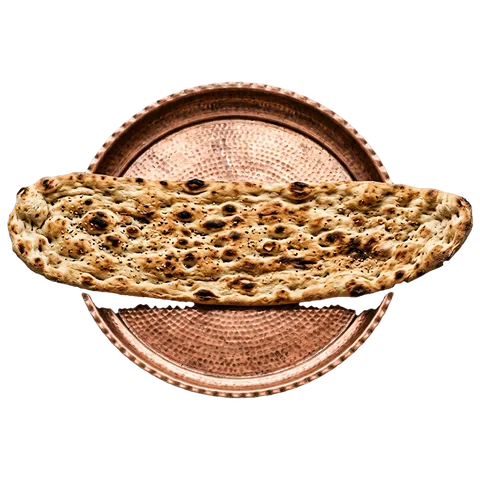
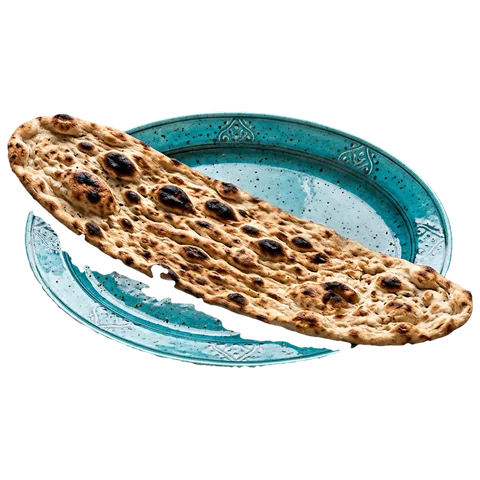
v33: دور سوم سفال فیروزهای — لوبیاپلو، استامبولی، کلمپلو، شیرینپلو، کشک بادمجان، میرزاقاسمی + سینی سنگک سفالی شدند؛ بازسازی دیزی/دوغ/زیتون در گام بعد

diff --git a/menu.html b/menu.html
@@ -532,8 +532,8 @@
 <article class="dish reveal" data-cat="polo">
       <div class="dish-media">
         <div class="window"><div class="glass">
-          <img src="assets/img/dish-lubia-480.webp"
-               srcset="assets/img/dish-lubia-480.webp 480w, assets/img/dish-lubia-880.webp 880w"
+          <img src="assets/img/dish-lubia-480.webp?v=33"
+               srcset="assets/img/dish-lubia-480.webp?v=33 480w, assets/img/dish-lubia-880.webp?v=33 880w"
                sizes="(max-width: 700px) 86vw, 340px"
                alt="لوبیاپلو: پلو با لوبیا سبز و گوشت و رب گوجه" loading="lazy">
         </div>
@@ -551,8 +551,8 @@
 <article class="dish reveal" data-cat="polo">
       <div class="dish-media">
         <div class="window"><div class="glass">
-          <img src="assets/img/dish-estamboli-480.webp"
-               srcset="assets/img/dish-estamboli-480.webp 480w, assets/img/dish-estamboli-880.webp 880w"
+          <img src="assets/img/dish-estamboli-480.webp?v=33"
+               srcset="assets/img/dish-estamboli-480.webp?v=33 480w, assets/img/dish-estamboli-880.webp?v=33 880w"
                sizes="(max-width: 700px) 86vw, 340px"
                alt="استامبولیپلو: پلو با گوجه و سیبزمینی و لوبیا سبز" loading="lazy">
         </div>
@@ -570,8 +570,8 @@
 <article class="dish reveal" data-cat="polo">
       <div class="dish-media">
         <div class="window"><div class="glass">
-          <img src="assets/img/dish-kalam-480.webp"
-               srcset="assets/img/dish-kalam-480.webp 480w, assets/img/dish-kalam-880.webp 880w"
+          <img src="assets/img/dish-kalam-480.webp?v=33"
+               srcset="assets/img/dish-kalam-480.webp?v=33 480w, assets/img/dish-kalam-880.webp?v=33 880w"
                sizes="(max-width: 700px) 86vw, 340px"
                alt="کلمپلوی شیرازی: پلو با کلمبرگ و سبزی معطر و گوشت" loading="lazy">
         </div>
@@ -589,8 +589,8 @@
 <article class="dish reveal" data-cat="polo">
       <div class="dish-media">
         <div class="window"><div class="glass">
-          <img src="assets/img/dish-shirin-480.webp"
-               srcset="assets/img/dish-shirin-480.webp 480w, assets/img/dish-shirin-880.webp 880w"
+          <img src="assets/img/dish-shirin-480.webp?v=33"
+               srcset="assets/img/dish-shirin-480.webp?v=33 480w, assets/img/dish-shirin-880.webp?v=33 880w"
                sizes="(max-width: 700px) 86vw, 340px"
                alt="شیرینپلو: پلوی زعفرانی با هویج شیرین و پسته و بادام و مرغ" loading="lazy">
         </div>
@@ -617,8 +617,8 @@
 <article class="dish reveal" data-cat="sonnati">
       <div class="dish-media">
         <div class="window"><div class="glass">
-          <img src="assets/img/dish-dizi-480.webp"
-             srcset="assets/img/dish-dizi-480.webp 480w, assets/img/dish-dizi-880.webp 880w"
+          <img src="assets/img/dish-dizi-480.webp?v=33"
+             srcset="assets/img/dish-dizi-480.webp?v=33 480w, assets/img/dish-dizi-880.webp?v=33 880w"
              sizes="(max-width: 700px) 86vw, 340px"
              alt="دیزی سنگی با گوشت و نخود، کاسهی تیلیت، سنگک، سبزی خوردن و ترشی خانگی" loading="lazy">
         </div>
@@ -636,8 +636,8 @@
 <article class="dish reveal" data-cat="sonnati">
       <div class="dish-media">
         <div class="window"><div class="glass">
-          <img src="assets/img/dish-kashkbademjan-480.webp"
-               srcset="assets/img/dish-kashkbademjan-480.webp 480w, assets/img/dish-kashkbademjan-880.webp 880w"
+          <img src="assets/img/dish-kashkbademjan-480.webp?v=33"
+               srcset="assets/img/dish-kashkbademjan-480.webp?v=33 480w, assets/img/dish-kashkbademjan-880.webp?v=33 880w"
                sizes="(max-width: 700px) 86vw, 340px"
                alt="کشک بادمجان: دیپ بادمجان دودی و کشک با نعناداغ و گردو" loading="lazy">
         </div>
@@ -655,8 +655,8 @@
 <article class="dish reveal" data-cat="sonnati">
       <div class="dish-media">
         <div class="window"><div class="glass">
-          <img src="assets/img/dish-mirzaghasemi-480.webp"
-               srcset="assets/img/dish-mirzaghasemi-480.webp 480w, assets/img/dish-mirzaghasemi-880.webp 880w"
+          <img src="assets/img/dish-mirzaghasemi-480.webp?v=33"
+               srcset="assets/img/dish-mirzaghasemi-480.webp?v=33 480w, assets/img/dish-mirzaghasemi-880.webp?v=33 880w"
                sizes="(max-width: 700px) 86vw, 340px"
                alt="میرزاقاسمی: خوراک بادمجان دودی، گوجه، سیر و تخممرغ گیلانی" loading="lazy">
         </div>
@@ -702,8 +702,8 @@
     <article class="dish reveal" data-cat="kenar">
       <div class="dish-media">
         <div class="window"><div class="glass">
-          <img src="assets/img/dish-kenar-sangak-480.webp"
-             srcset="assets/img/dish-kenar-sangak-480.webp 480w, assets/img/dish-kenar-sangak-880.webp 880w"
+          <img src="assets/img/dish-kenar-sangak-480.webp?v=33"
+             srcset="assets/img/dish-kenar-sangak-480.webp?v=33 480w, assets/img/dish-kenar-sangak-880.webp?v=33 880w"
              sizes="(max-width: 700px) 86vw, 340px"
              alt="نان سنگک تنوری: نان داغ تنور بر سینی مسی" loading="lazy">
         </div>
@@ -756,8 +756,8 @@
     <article class="dish reveal" data-cat="kenar">
       <div class="dish-media">
         <div class="window"><div class="glass">
-          <img src="assets/img/dish-kenar-zeytun-480.webp"
-             srcset="assets/img/dish-kenar-zeytun-480.webp 480w, assets/img/dish-kenar-zeytun-880.webp 880w"
+          <img src="assets/img/dish-kenar-zeytun-480.webp?v=33"
+             srcset="assets/img/dish-kenar-zeytun-480.webp?v=33 480w, assets/img/dish-kenar-zeytun-880.webp?v=33 880w"
              sizes="(max-width: 700px) 86vw, 340px"
              alt="زیتون پرورده: کاسهٔ زیتون ماریناشده با رب انار و گلپر" loading="lazy">
         </div>
@@ -774,8 +774,8 @@
     <article class="dish reveal" data-cat="kenar">
       <div class="dish-media">
         <div class="window"><div class="glass">
-          <img src="assets/img/dish-kenar-doogh-480.webp"
-             srcset="assets/img/dish-kenar-doogh-480.webp 480w, assets/img/dish-kenar-doogh-880.webp 880w"
+          <img src="assets/img/dish-kenar-doogh-480.webp?v=33"
+             srcset="assets/img/dish-kenar-doogh-480.webp?v=33 480w, assets/img/dish-kenar-doogh-880.webp?v=33 880w"
              sizes="(max-width: 700px) 86vw, 340px"
              alt="دوغ محلی با نعنا: کاسهٔ مسی دوغ زدهشده" loading="lazy">
         </div>

diff --git a/index.html b/index.html
@@ -144,8 +144,8 @@
       <span class="cat-txt"><b>پلوها و چلوها</b><i>۱۰ غذا · دمی و زعفرانی</i><em>دیدن همهی غذاها</em></span>
     </a>
     <a class="cat-tile reveal" href="menu.html#sonnati">
-      <img src="assets/img/dish-dizi-480.webp"
-           srcset="assets/img/dish-dizi-480.webp 480w, assets/img/dish-dizi-880.webp 880w"
+      <img src="assets/img/dish-dizi-480.webp?v=33"
+           srcset="assets/img/dish-dizi-480.webp?v=33 480w, assets/img/dish-dizi-880.webp?v=33 880w"
            sizes="(max-width: 560px) 92vw, (max-width: 1020px) 46vw, 300px"
            alt="سنتی و آش: دیزی و آشهای نوستالژی" loading="lazy">
       <span class="cat-txt"><b>سنتی و آش</b><i>۴ غذا · سفرهی نوستالژی</i><em>دیدن همهی غذاها</em></span>
